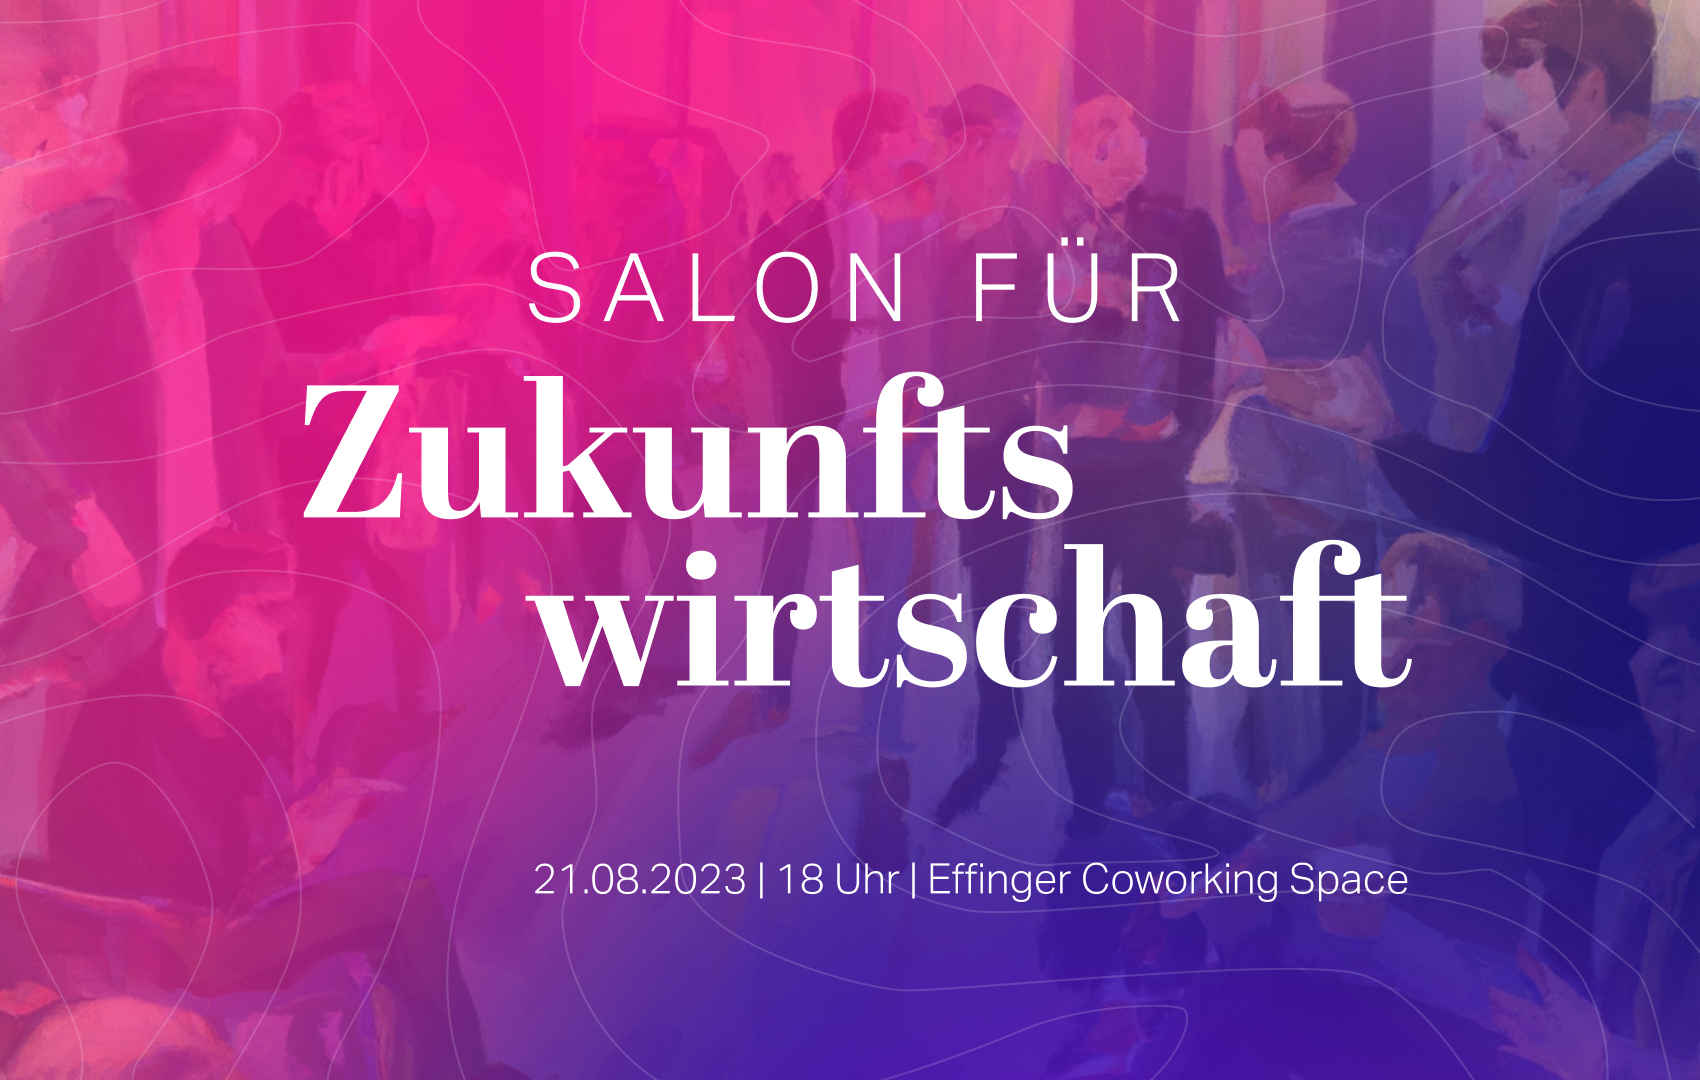
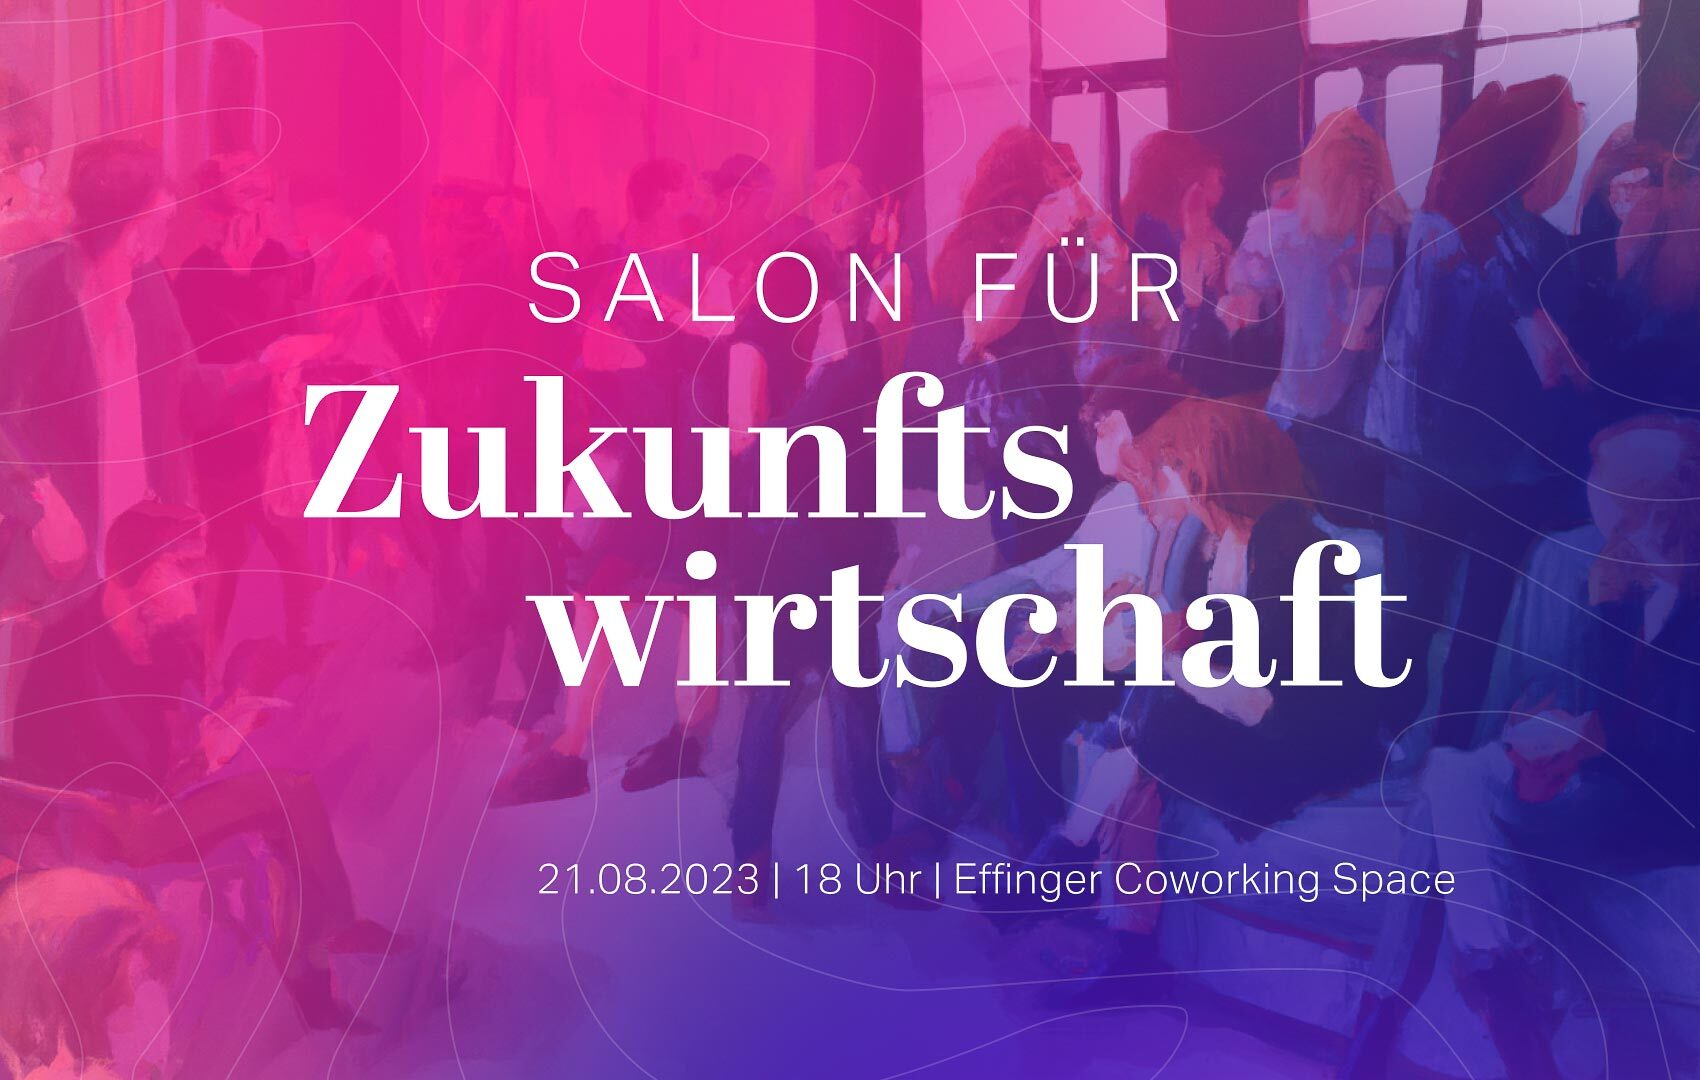
New keyvisual and signup button for the economic salon

diff --git a/content/events/100469.md b/content/events/100469.md
@@ -6,7 +6,7 @@ enddate = "2023-08-21T21:00:00"
 description = "Inspiration für eine lebensdienliche Wirtschaft"
 image = "/upload/2023-08-21_salon-zukunftswirtschaft.jpg"
 categories = ["Community"]
-location = "Effinger 2. OG"
+location = "Effinger, 2. OG"
 aliases = ["/salon-zukunft"]
 +++
 ![Titelbild](/upload/2023-08-21_salon-zukunftswirtschaft.jpg)
@@ -16,8 +16,8 @@ Inspiration für eine lebensdienliche Wirtschaft – das ist der «Salon für Zu
 Im Verlauf des Abends werden uns erlesene Unternehmen mit «Lightning Talks» Einblicke in ihre Welt der Kreislaufwirtschaft, des Social Entrepreneurship, der Commons, der Selbstorganisation und des Community-Buildings geben. Sie werden uns offenbaren, wie sie die Wirtschaft von morgen bereits in unserer Gegenwart mitgestalten.
 
 ### Anmeldung
-Die Platzzahl ist beschränkt. \
-Anmeldung bitte bis am 18. August unter https://forms.gle/u1PhnXaCAnEDC1rv6
+Anmeldung bitte bis am 18. August. Die Platzzahl ist beschränkt.
+<a class="btn btn-medium btn-mod btn-border mt-10" href="https://forms.gle/u1PhnXaCAnEDC1rv6">Jetzt Anmelden</a>
 
 ### Eintritt inkl. Apéro
 CHF 20.–
